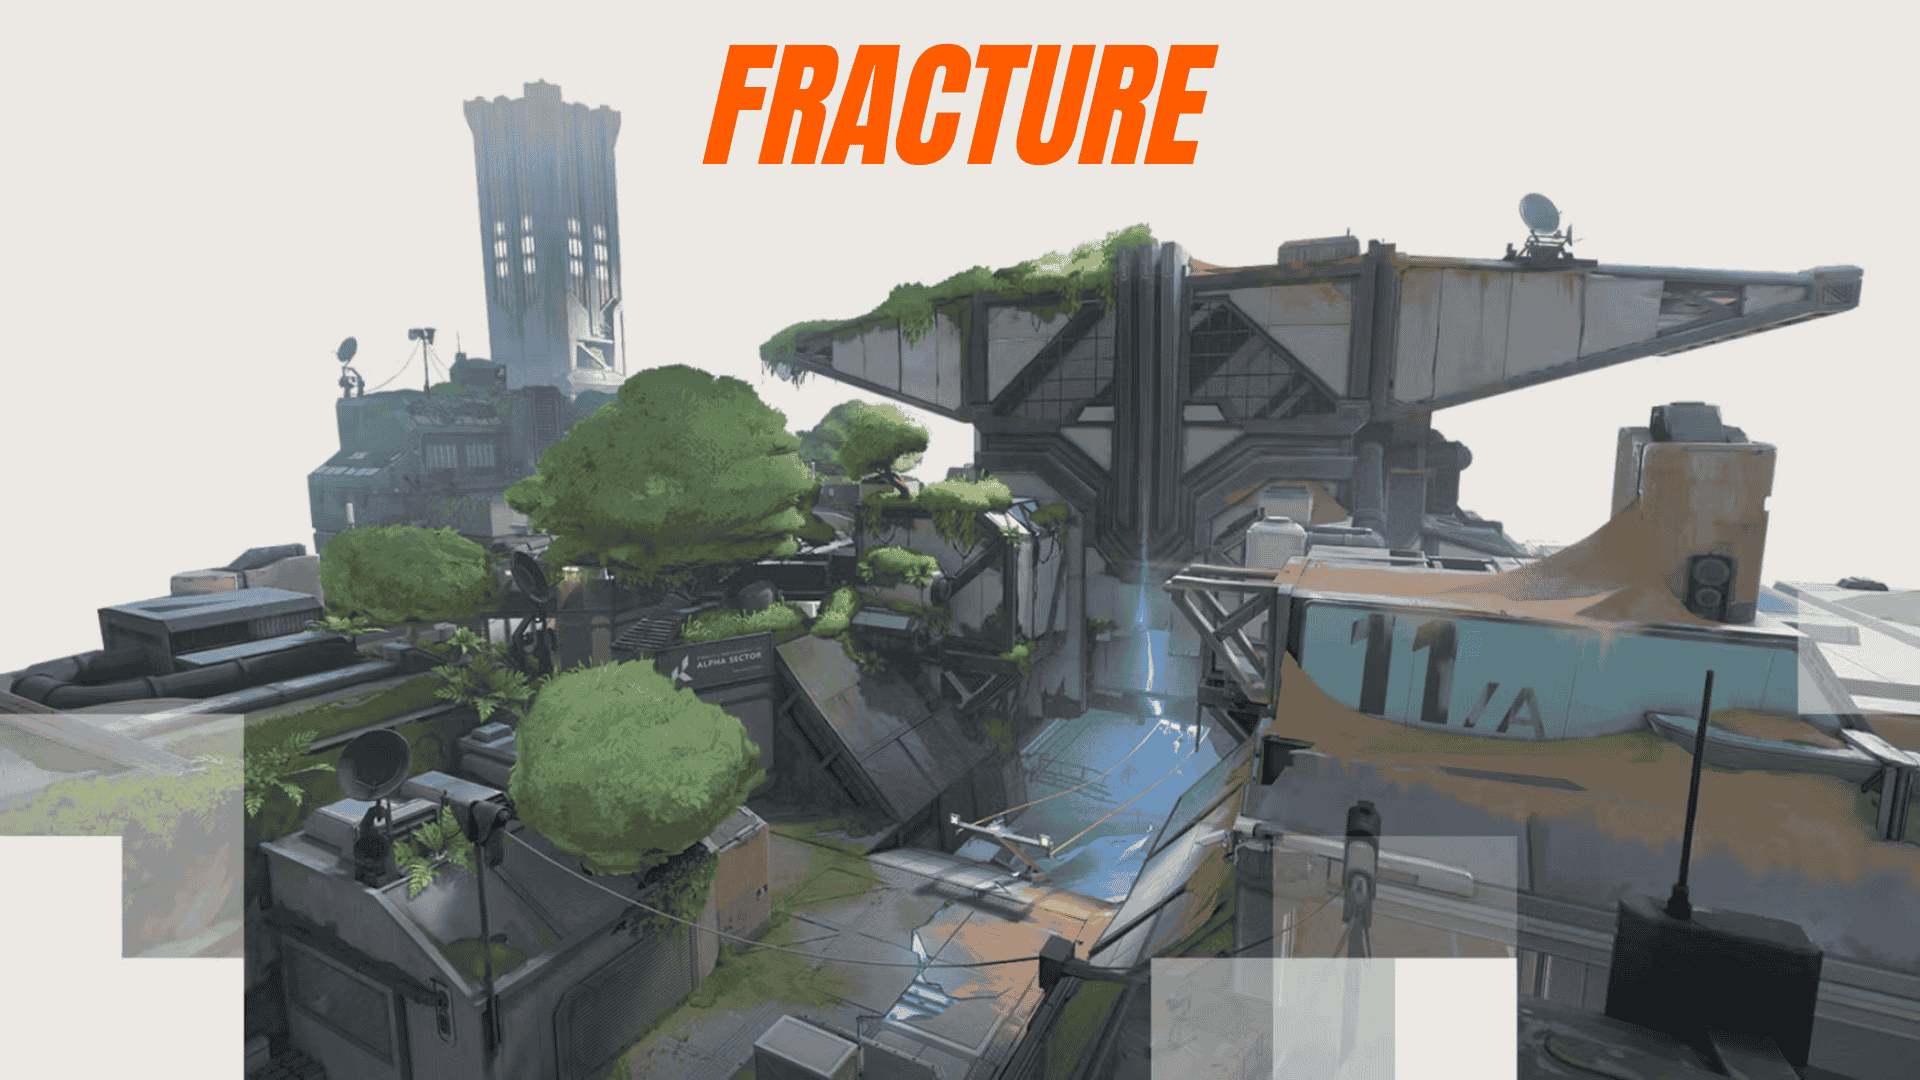
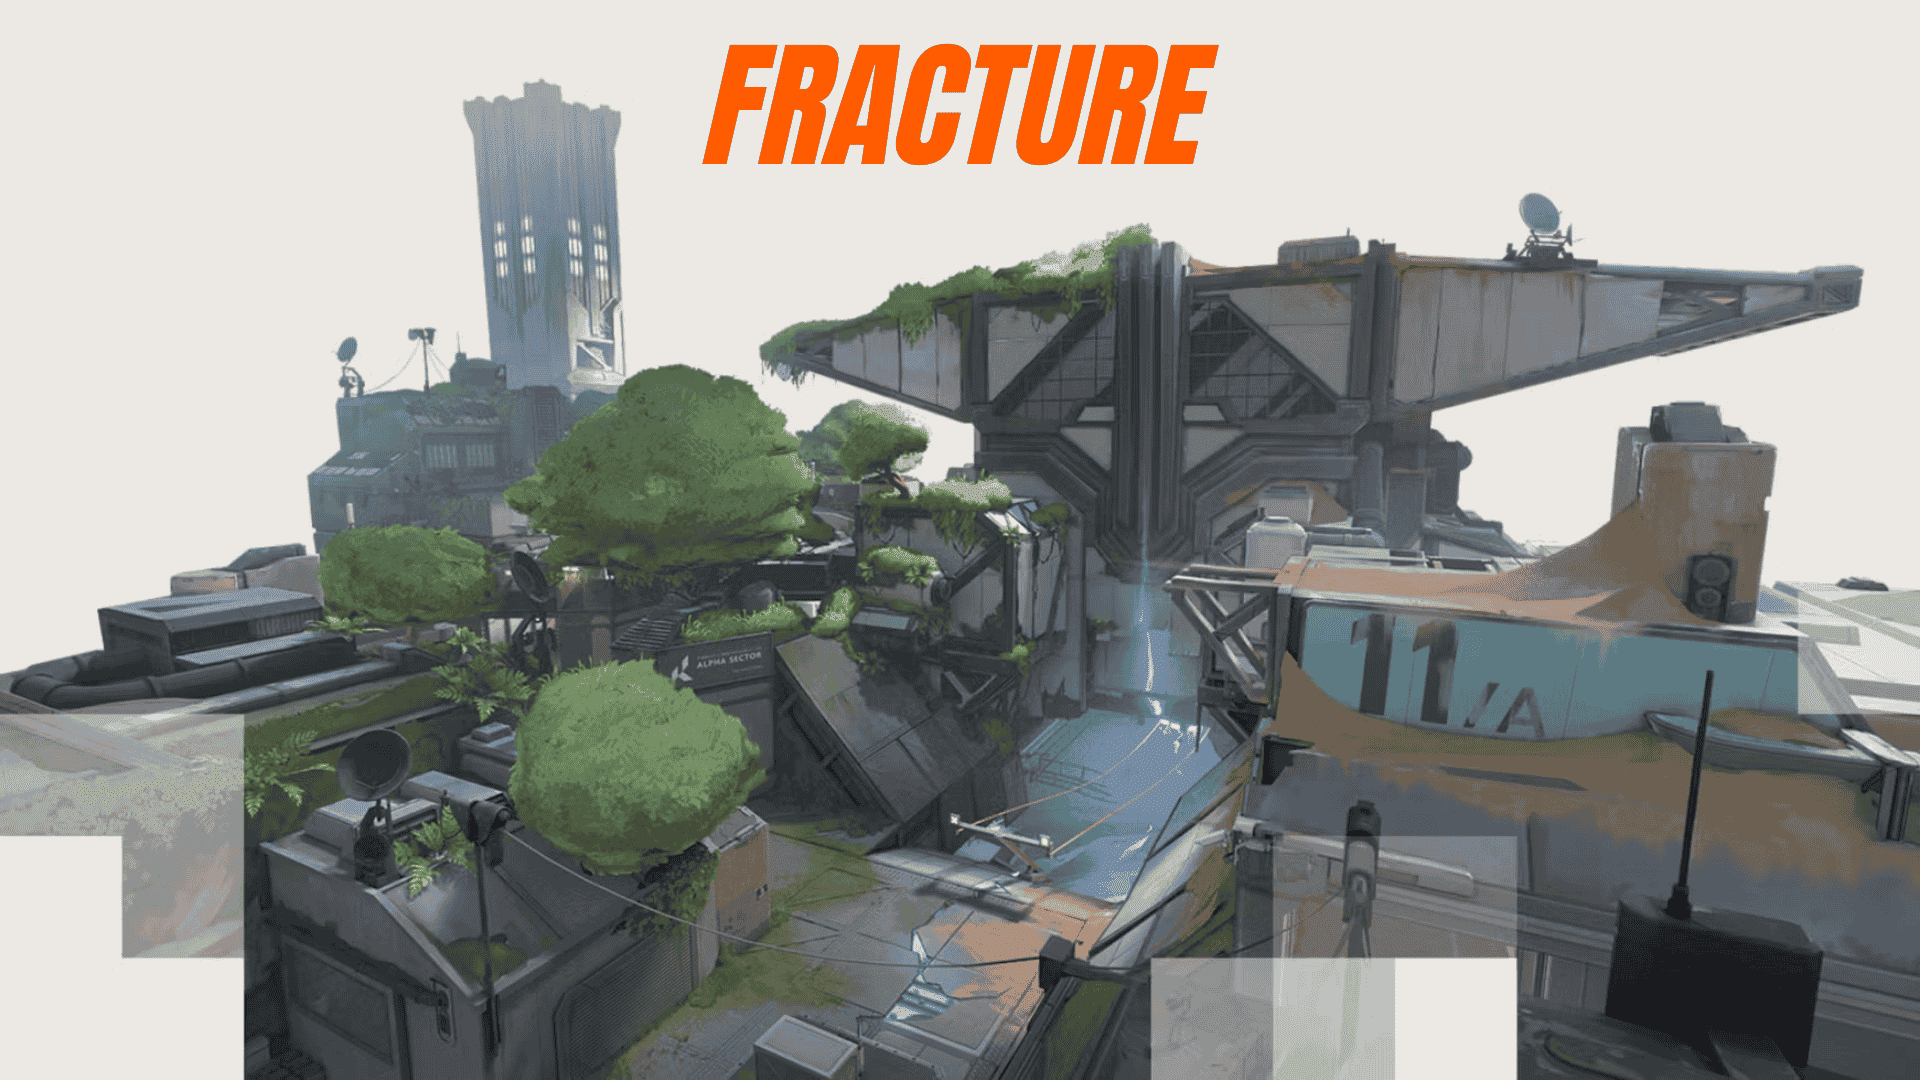
cleaning up edges

diff --git a/CSS/maps.css b/CSS/maps.css
@@ -51,14 +51,12 @@ h1 {
 }
 
 .image-accordion {
-    /* position: absolute; */
     height: auto;
     width: 100%;
     gap: 5px;
     display: flex;
     align-items: center;
     justify-content: center;
-    /* overflow: hidden; */
 }
 
 .panel {
@@ -71,7 +69,6 @@ h1 {
     justify-content: center;
     overflow: hidden;
     transition: flex 0.5s ease;
-    /* background-color: #f5f5f5; */
 }
 
 .panel-img {
@@ -103,18 +100,15 @@ h1 {
     opacity: 1;
 }
 
-/* Panel aktif membesar */
 .panel.active {
     flex: 3;
 }
 
-/* Gambar di panel aktif naik */
 .panel.active .panel-img {
     height: 520px;
     transform: translateY(50px);
 }
 
-/* Panel lain jadi kecil */
 .image-accordion .panel:not(.active) {
     flex: 0.5;
 }
@@ -131,7 +125,6 @@ h1 {
     }
 
     .image-accordion {
-        /* position: absolute; */
         height: auto;
         width: 100%;
         gap: 5px;
@@ -142,7 +135,6 @@ h1 {
         display: grid;
         gap: 5px;
         grid-template-rows: repeat(auto-fit, minmax(75px, 1fr));
-        /* overflow: hidden; */
     }
     
     .panel {
@@ -156,7 +148,6 @@ h1 {
         justify-content: center;
         overflow-y: hidden;
         transition: height 0.5s ease;
-        /* background-color: #f5f5f5; */
     }
     
     .panel-img {
@@ -186,18 +177,15 @@ h1 {
         opacity: 1;
     }
     
-    /* Panel aktif membesar */
     .panel.active {
         height: 250px;
     }
     
-    /* Gambar di panel aktif naik */
     .panel.active .panel-img {
         height: auto;
         transform: translateY(0px);
     }
     
-    /* Panel lain jadi kecil */
     .image-accordion .panel:not(.active) {
         flex: 0.5;
     }

diff --git a/CSS/style.css b/CSS/style.css
@@ -50,8 +50,8 @@
 
 .big-container {
     width: 100%;
-    max-width: 1440px; /* atau berapa pun yang kamu mau */
-    margin: 0 auto; /* ini yang bikin dia center */
+    max-width: 1440px;
+    margin: 0 auto;
 }  
 
 * {
@@ -59,8 +59,6 @@
     margin: 0;
     font-family: 'Prompt', sans-serif;
     box-sizing: border-box;
-    /* max-width: 1440px; */
-    /* overflow-x: hidden; */
 }
 
 body {
@@ -103,14 +101,6 @@ body {
     align-items: center;
     justify-content: space-between;
 }
-
-/* .center-nav {
-    width: 10%;
-    margin: 0 1rem;
-    display: flex;
-    align-items: center;
-    justify-content: center;
-} */
 
 .play-container {
     width: 150px;
@@ -375,7 +365,6 @@ a {
     width: 100%;
 }
 
-/* Hide hamburger by default */
 .hamburger {
     display: none;
     font-size: 24px;
@@ -434,7 +423,7 @@ footer {
     }
 
     .nav {
-        top: 50px; /* adjust based on navbar height */
+        top: 50px;
         left: 0;
         width: 30%;
         height: 0;
@@ -444,7 +433,7 @@ footer {
         display: flex;
         visibility: hidden;
         flex-direction: column;
-        background-color: black; /* optional bg */
+        background-color: black;
         position: absolute;
         transition: height 0.3s ease-in-out, opacity 0.3s ease-in-out;
     }

diff --git a/JS/image-accordion.js b/JS/image-accordion.js
@@ -11,7 +11,7 @@ document.addEventListener("DOMContentLoaded", () => {
     }
 
     function startAutoScroll() {
-        stopAutoScroll(); // jaga-jaga biar ga dobel interval
+        stopAutoScroll();
         intervalId = setInterval(() => {
             currentIndex = (currentIndex + 1) % panels.length;
             setActivePanel(currentIndex);
@@ -22,20 +22,17 @@ document.addEventListener("DOMContentLoaded", () => {
         clearInterval(intervalId);
     }
 
-    // Setup awal
     setActivePanel(currentIndex);
     startAutoScroll();
 
-    // Hover panel
     panels.forEach((panel, index) => {
         panel.addEventListener("mouseenter", () => {
             stopAutoScroll();
             setActivePanel(index);
-            currentIndex = index; // update index ke yang dihover
+            currentIndex = index;
         });
     });
 
-    // Mouse keluar dari container
     container.addEventListener("mouseleave", () => {
         startAutoScroll();
     });

diff --git a/HTML/palorant.html b/HTML/palorant.html
@@ -9,7 +9,6 @@
     <link rel="icon" type="image/png" sizes="16x16" href="../Assets/Images/favicon_io/favicon-16x16.png">
     <link rel="manifest" href="/site.webmanifest">
     <link rel="stylesheet" href="../CSS/palorant.css">
-    <!-- <script src="../JS/palorant.js"></script> -->
     <script src="../JS/image-accordion.js"></script>
     <script src="../JS/hamburger-menu.js"></script>
 </head>
@@ -265,8 +264,6 @@
                     </div>
                 </div>
                 <div class="maps-right">
-                    <!-- <div class="maps-bg"></div> -->
-                    <!-- <img src="../Assets/Images/Map_bg.png" class="maps-bg"> -->
                     <div class="maps-right-top">
                     </div>
                     <div class="maps-right-center">

diff --git a/CSS/palorant.css b/CSS/palorant.css
@@ -24,14 +24,6 @@
     object-fit: cover;
 }
 
-/* .landing-bg-wrapper {
-    height: 850px;
-    width: 100%;
-    z-index: 0;
-    position: absolute;
-    background-color: aqua;
-} */
-
 .content {
     z-index: 2;
     display: flex;
@@ -97,7 +89,6 @@
 }
 
 .btn-learn:hover {
-    /* color: #1A1A1A; */
     transform: scale(1.2);
 }
 
@@ -312,18 +303,6 @@
     background-repeat: no-repeat;
     overflow: hidden;
 }
-
-/* .identity-img {
-    height: 600px;
-    width: 1440px;
-    position: absolute;
-    z-index: 1;
-    overflow: hidden;
-    background-image: url(../Assets/Images/Home/identity.png);
-    background-position: 700px center;
-    background-size: contain;
-    background-repeat: no-repeat;
-} */
 
 .identity-left {
     height: 100%;

diff --git a/CSS/agent.css b/CSS/agent.css
@@ -70,7 +70,6 @@
 }
 
 .card-p, .skill-desc {
-    /* 18 */
     font-size: clamp(12px, 1.5vw, 18px);
     line-height: 120%;
     font-family: 'Segoe UI', Tahoma, Geneva, Verdana, sans-serif;
@@ -87,7 +86,6 @@
     justify-content: left;
     padding-left: 35px;
     clip-path: polygon(0% 0%, 90% 0%, 100% 100%, 10% 100%);
-    /* clip-path: polygon(0% 0%, 100% 0%, 100% 100%, 10% 100%); */
     background-color: black;
 }
 
@@ -362,7 +360,6 @@
         justify-content: left;
         padding-left: 5%;
         clip-path: polygon(0% 0%, 100% 0%, 100% 100%, 10% 100%);
-        /* clip-path: polygon(0% 0%, 100% 0%, 100% 100%, 10% 100%); */
         background-color: black;
     }
     

diff --git a/CSS/map.css b/CSS/map.css
@@ -47,7 +47,6 @@
     font-size: clamp(12px, 8vw, 100px);
     line-height: 50%;
     padding: 15px 0 15px 30px;
-    /* background-color: #F5F5F5; */
     text-shadow: 0px 0px 15px #1A1A1A;
     color: #FF5C00;
     font-style: italic;
@@ -116,11 +115,11 @@
     scroll-behavior: smooth;
     gap: 10px;
     padding: 10px;
-    scrollbar-width: none; /* Firefox */
+    scrollbar-width: none; 
 }
   
 .thumbnails::-webkit-scrollbar {
-    display: none; /* Chrome, Safari */
+    display: none; 
 }
   
 .thumb {

diff --git a/CSS/agents.css b/CSS/agents.css
@@ -177,7 +177,7 @@ footer {
     .card {
         height: 100%;
         width: 100%;
-        flex: 1 1 calc(50% - 10px); /* 2 card dalam satu baris pada layar kecil */
+        flex: 1 1 calc(50% - 10px);
     }
 
     .agents-img {
@@ -237,8 +237,7 @@ footer {
     }
 
     h1 {
-        font-size: 32px;
-        
+        font-size: 32px;    
     }
 
     .card {

diff --git a/HTML/agents.html b/HTML/agents.html
@@ -201,8 +201,6 @@
                 </a>
             </section>
 
-            <!-- <section class="agents-display">
-            </section> -->
             <div class="space"></div>
         </main>
 

diff --git a/CSS/new.css b/CSS/new.css
@@ -23,7 +23,6 @@ main {
     min-width: 1000px;
     top: 0;
     z-index: -1;
-    /* transform: translateY(150px); */
     overflow: hidden;
     position: absolute;
 }
